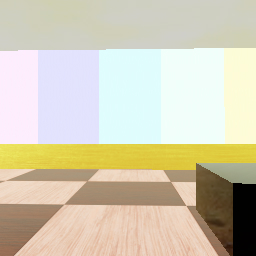
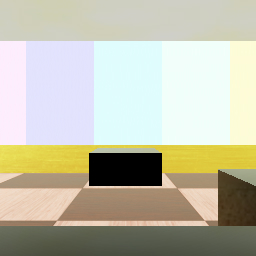
add motor

diff --git a/controllers/my_controller/my_controller.py b/controllers/my_controller/my_controller.py
@@ -1,6 +1,7 @@
 
 from controller import Robot,Motor,GPS,Supervisor,Camera,CameraRecognitionObject
 import random
+import numpy as np
 TOTAL_OBS = 6
 WIDTH = 8
 HEIGHT = 8
@@ -10,12 +11,18 @@ STARTING_Y = -1.05
 STARTING_Z = 0.2
 GRID_WIDTH = 0.2514
 GRID_HEIGHT = 0.2514
-
+MAX_SPEED = 4
+WHEEL_RADIUS = 0.033
+WHEEL_BASE = 0.18
 
 robot = Robot()
 supervisor = Supervisor()
 all_tiles = []
 color_dict = {}
+
+theta_integral = 0.0 
+distance_integral = 0.0
+v = 1.0   # Linear velocity (adjust as needed)
 
 def gen_tile_list():
    tile_list = []
@@ -39,11 +46,34 @@ gps.enable(timestep)
 
 camera = robot.getDevice("camera")
 camera.enable(timestep)
-# You should insert a getDevice-like function in order to get the
-# instance of a device of the robot. Something like:
+
+# Init motors
 left_motor = robot.getDevice('left wheel motor')
 right_motor = robot.getDevice('right wheel motor')
+left_motor.setPosition(float("inf"))
+right_motor.setPosition(float("inf"))
+left_motor.setVelocity(0)
+right_motor.setVelocity(0)
 
+def move_forward(coeff=1):
+    print("moving forward")
+    left_motor.setVelocity(coeff*MAX_SPEED)
+    right_motor.setVelocity(coeff*MAX_SPEED)
+
+def move_backward(coeff=1):
+    print("moving backward")
+    left_motor.setVelocity(-coeff*MAX_SPEED)
+    right_motor.setVelocity(-coeff*MAX_SPEED)
+
+def counter_clockwise_spin(coeff=0.5):
+    print("CCW spin")
+    left_motor.setVelocity(-coeff*MAX_SPEED)
+    right_motor.setVelocity(coeff*MAX_SPEED)
+
+def counter_clockwise_spin(coeff=0.5):
+    print("CW spin")
+    left_motor.setVelocity(coeff*MAX_SPEED)
+    right_motor.setVelocity(-coeff*MAX_SPEED)
 
 def gameover():
     gg_tiles = []
@@ -77,8 +107,6 @@ def spawn_boxes(obs_number):
     global all_tiles
     grid_xs = [a-((a//8)*8) for a in all_tiles[7:13]]
     grid_ys = [(a//8) for a in all_tiles[7:13]]
-    
-   
 
     for i in range(obs_number):
         pos_x = round((grid_xs[i])*GRID_WIDTH + STARTING_X, 4)
@@ -99,14 +127,6 @@ def spawn_box(id, position):
     translation_field.setSFVec3f(position)      
     
     
-
-def forward(speed):
-   left_motor.setPosition(float("inf"))
-   left_motor.setVelocity(speed)
-   right_motor.setPosition(float("inf"))
-   right_motor.setVelocity(speed)
-   #  ds = robot.getDevice('dsname')
-#  ds.enable(timestep)
 def col_match(color):
   col = 0
   if [253,236,253]<color<[253,240,253]: #[[253,236,253],[253,237,253],[253,238,253]]:
@@ -136,6 +156,7 @@ def col_match(color):
   else:
       col = 0
   return col
+
 def pixel_area(col,img):
     count = 0
     end = 0
@@ -246,6 +267,7 @@ while robot.step(timestep) != -1:
     print(str(red) +","+ str(green) +","+ str(blue)) 
     
     """
+    move_forward()
     img = camera.getImageArray()
     w = camera.getWidth()
     h = camera.getHeight() 
@@ -277,11 +299,6 @@ while robot.step(timestep) != -1:
        print("win")
        print("win")
        break
-     
-        
-       
-    
-     
 
     # Read the sensors:
     # Enter here functions to read sensor data, like:
